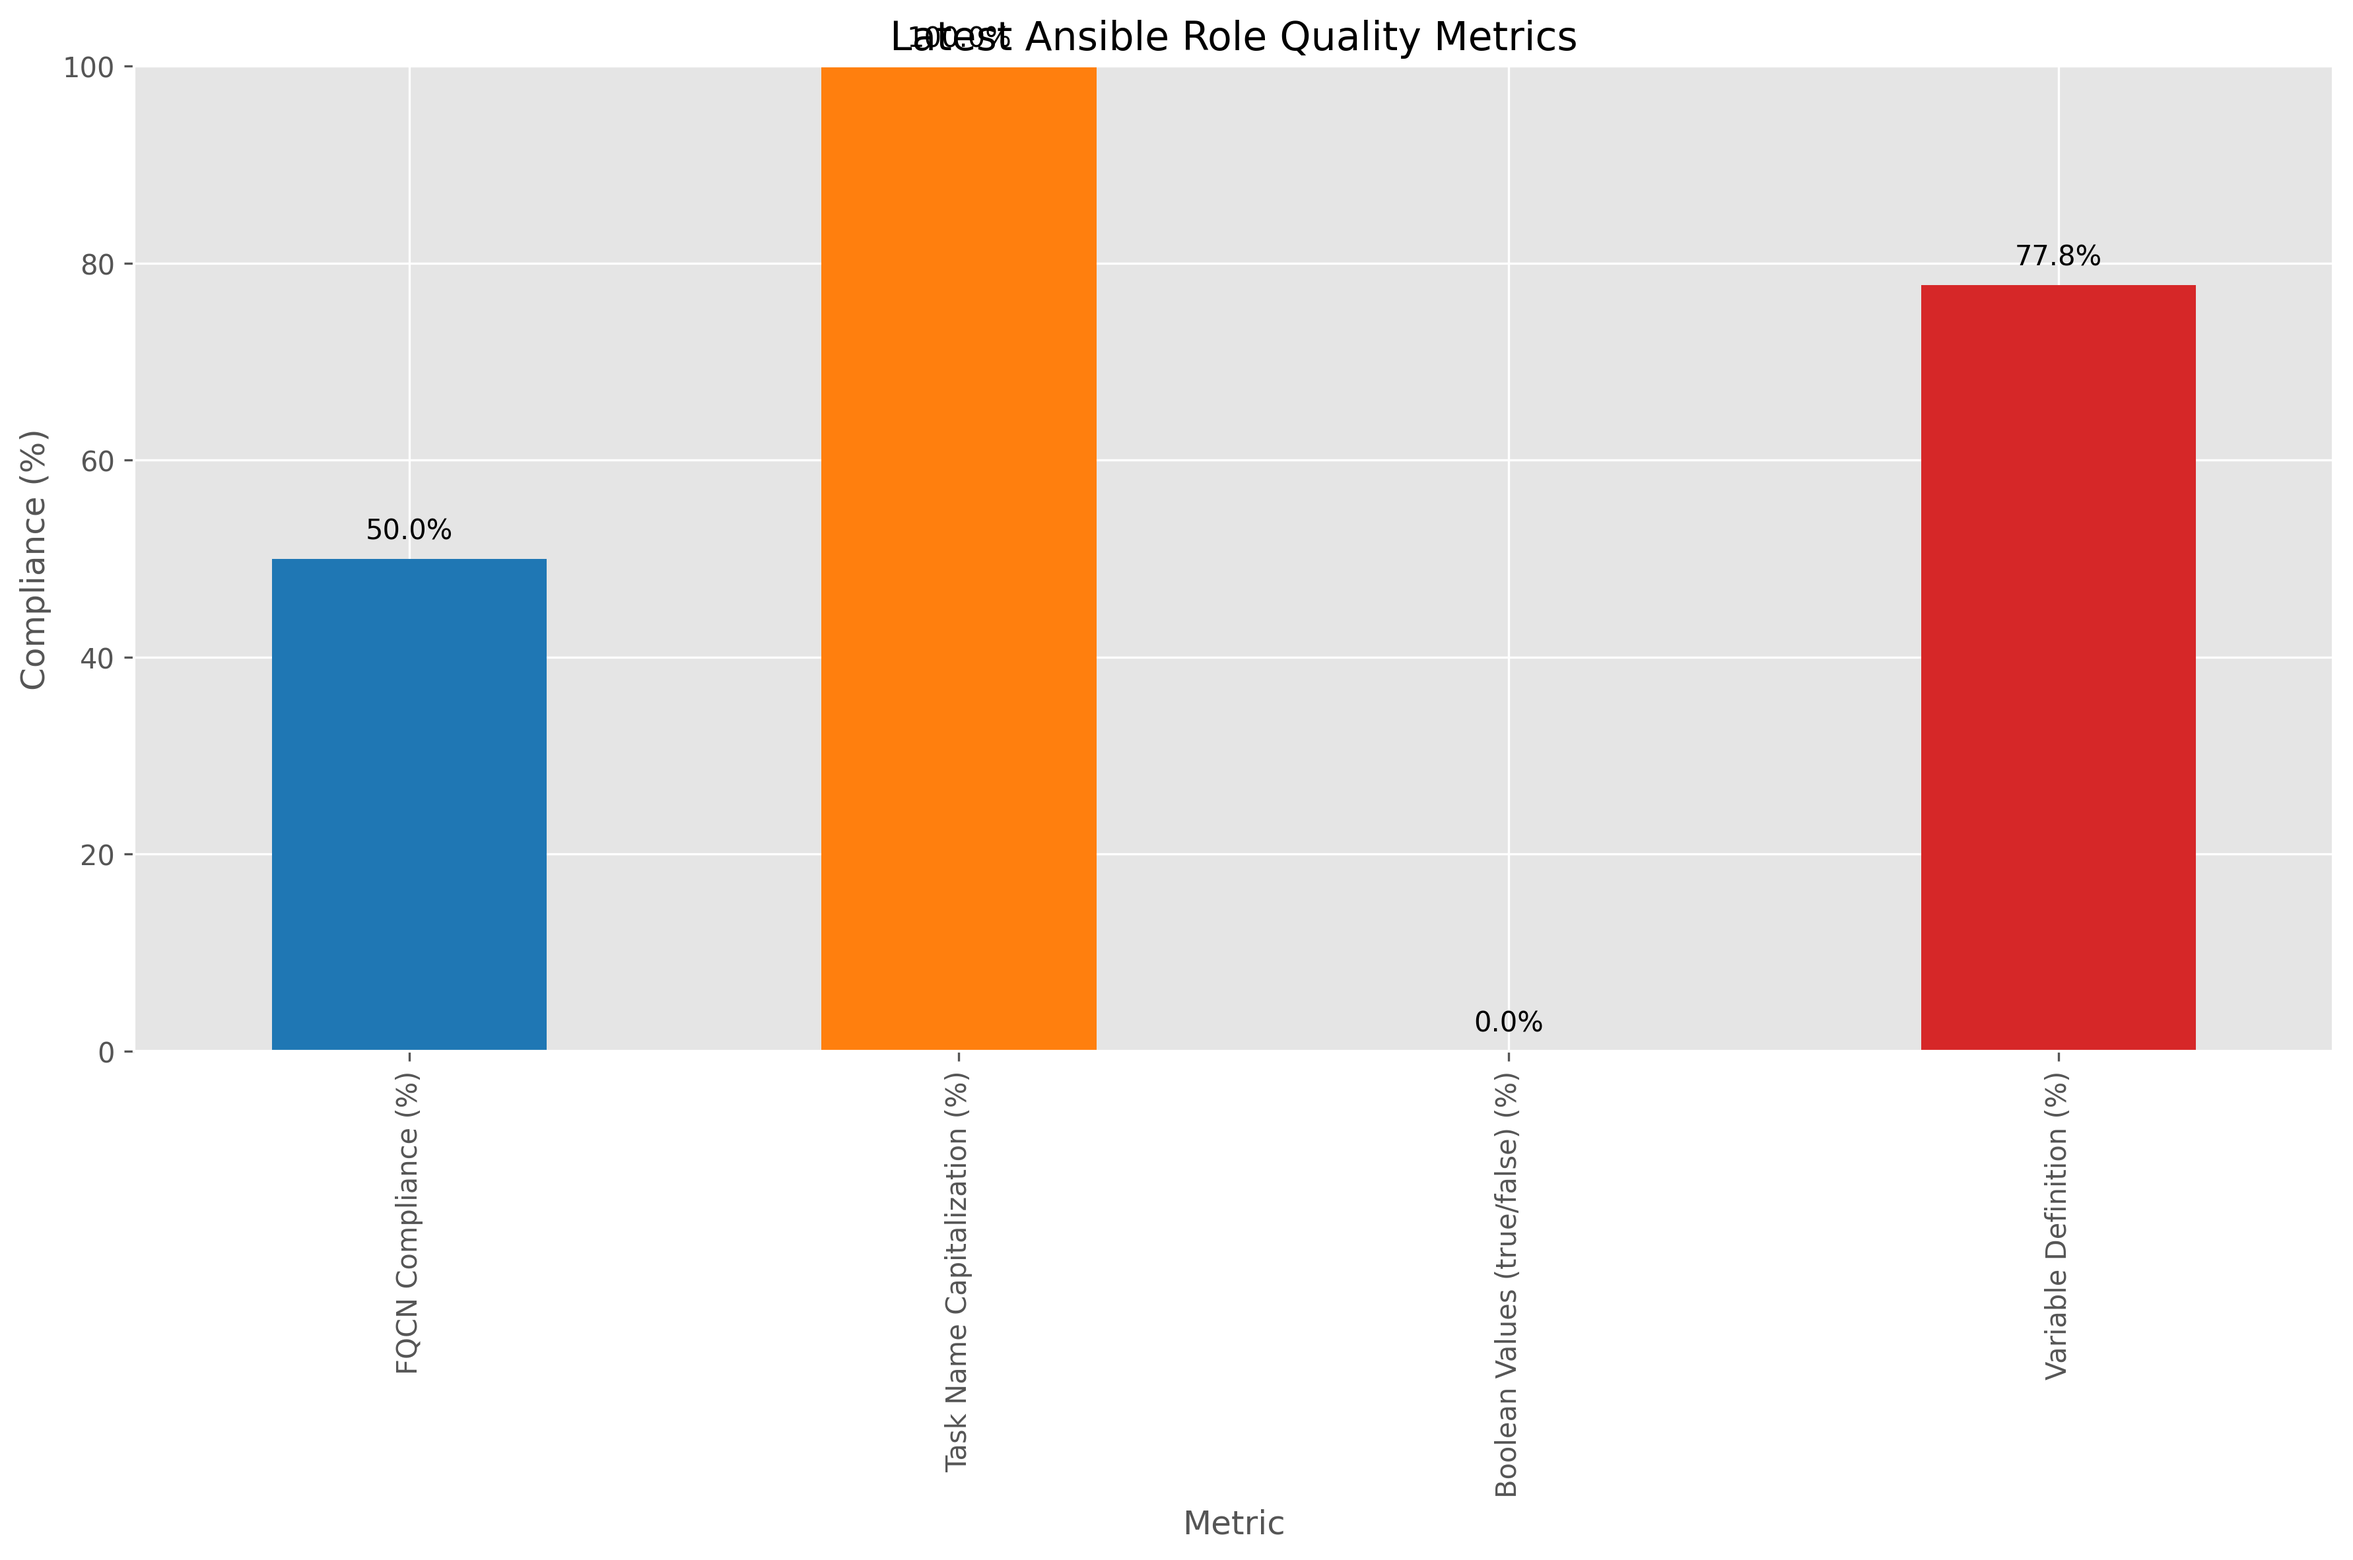
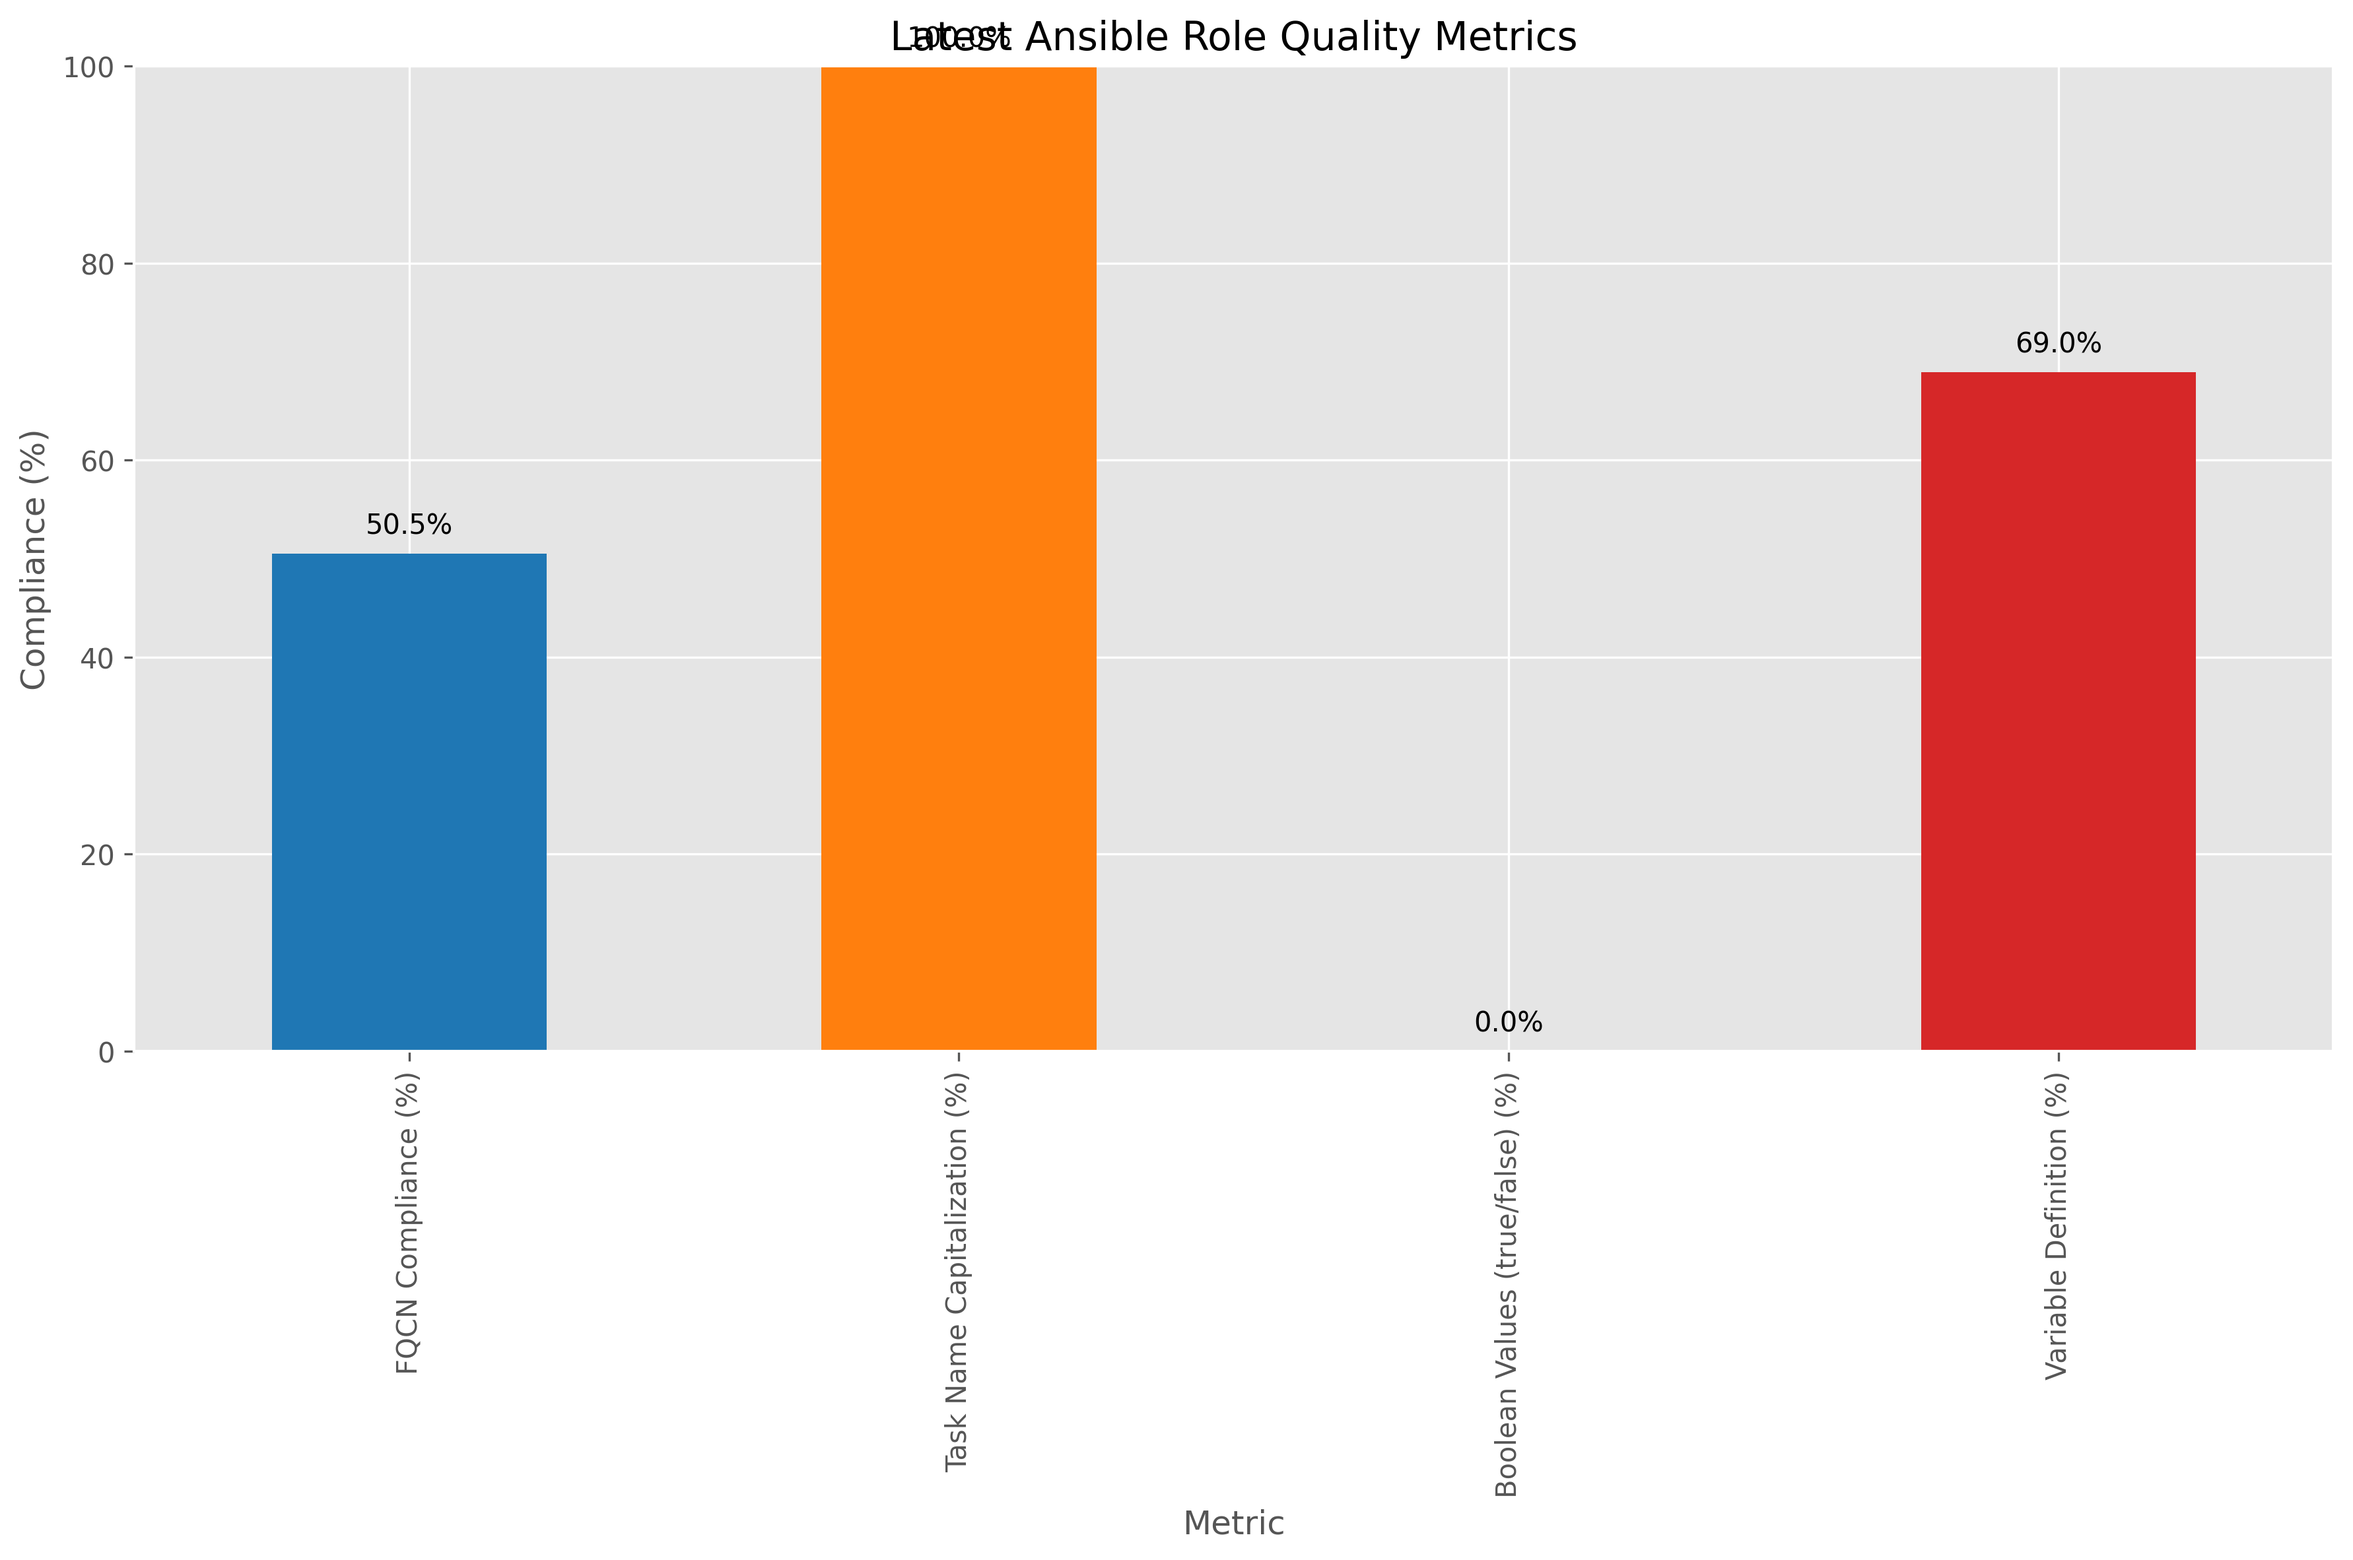
Update metrics (automated) 86381e575e3cb567ae7d61f2b827ec3665fe9a28

Changed region(s): [[0.8098, 0.1544, 0.9343, 0.247], [0.1246, 0.3088, 0.218, 0.3706]]

diff --git a/metrics/metrics_summary.md b/metrics/metrics_summary.md
@@ -1,15 +1,15 @@
 # Chef to Ansible Conversion Metrics
 
-Last updated: 2025-07-13 00:30:42
+Last updated: 2025-07-20 00:32:20
 
 ## Latest Compliance Metrics
 
 | Metric | Value |
 |--------|-------|
-| FQCN Compliance (%) | 50.00% |
+| FQCN Compliance (%) | 50.54% |
 | Task Name Capitalization (%) | 100.00% |
 | Boolean Values (true/false) (%) | 0.00% |
-| Variable Definition (%) | 77.78% |
+| Variable Definition (%) | 68.97% |
 
 ## Compliance Metrics Over Time
 
